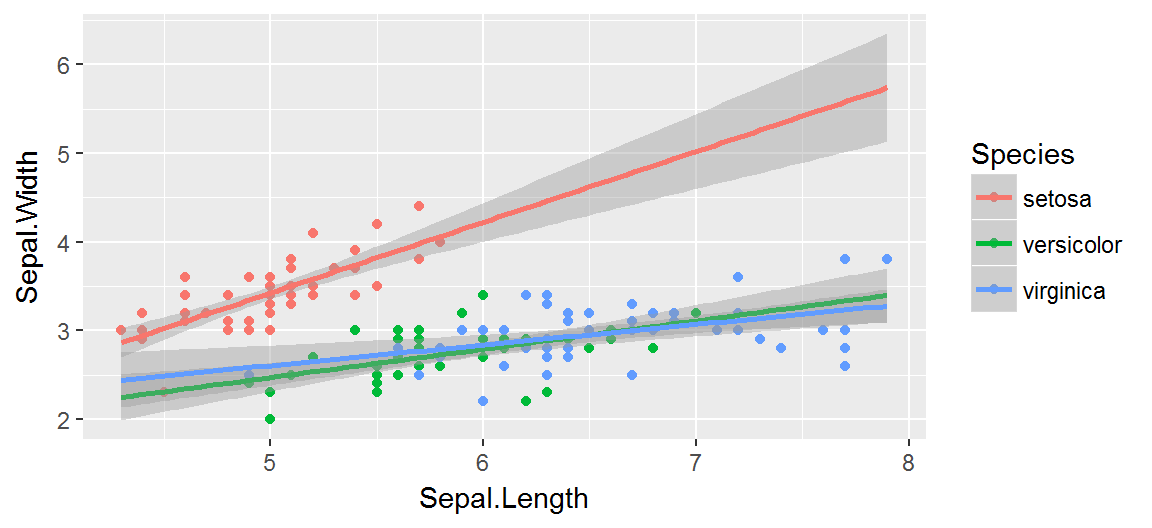
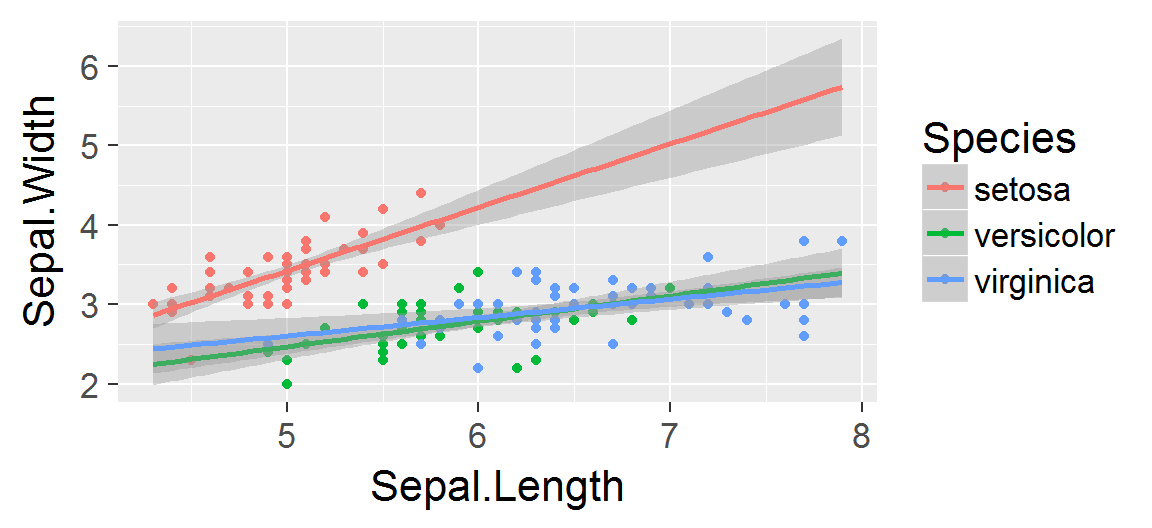
Updated the second ggplot 2 lab.
Removed weird example with lm smooth on each iris species.

Added example of changing facet labels.

Increased font size in plots

diff --git a/labs/ggplot_part2.html b/labs/ggplot_part2.html
@@ -10,7 +10,7 @@
 
 
 
-  <meta name="date" content="2017-03-20" />
+  <meta name="date" content="2017-03-24" />
 
   <meta name="viewport" content="width=device-width, initial-scale=1">
   <meta name="apple-mobile-web-app-capable" content="yes">
@@ -95,7 +95,7 @@
       <h1 data-config-title><!-- populated from slide_config.json --></h1>
       <h2 data-config-subtitle><!-- populated from slide_config.json --></h2>
       <p data-config-presenter><!-- populated from slide_config.json --></p>
-            <p style="margin-top: 6px; margin-left: -2px;">2017-03-20</p>
+            <p style="margin-top: 6px; margin-left: -2px;">2017-03-24</p>
           </hgroup>
   </slide>
 
@@ -104,6 +104,8 @@
 <p>We&#39;re going to continue the tour of the <code>ggplot2</code> package we began <a href='./lab17_ggplot2.html' title=''>last week</a></p>
 
 <p>We&#39;ll explore some more &quot;advanced&quot; features of the package, look at data management issues in the context of ggplot-ing, and make some common types of visualizations.</p>
+
+<p>NB: This lab was made using ggplot2 version 2.2.1, and a few things I&#39;ll be using are specific to ggplot2 version &gt;= 2.0. So, if you have an older version installed, you&#39;ll need to upgrade to follow along. You can check your version using the command <code>packageVersion(&quot;ggplot2&quot;)</code></p>
 
 </article></slide><slide class=''><hgroup><h2>The <code>iris</code> dataset</h2></hgroup><article  id="the-iris-dataset" class="img-centered">
 
@@ -191,7 +193,7 @@ print(p)</pre>
 
 </article></slide><slide class=''><hgroup><h2>Adding smooths</h2></hgroup><article  id="adding-smooths">
 
-<p>ggplot has a special geometric object called a &quot;smooth&quot;, which is a line path whose x and y values are determined by a regression algorithm (e.g., loess, or lm).</p>
+<p>ggplot has a special geometric object called a &quot;smooth&quot;, which is a line path whose x and y values are determined by a regression algorithm (e.g., <code>loess</code>, or <code>lm</code>).</p>
 
 <p>We can show a regression line and conditional mean C.I. for each flower group by adding a <code>geom_smooth</code> layer to the plot, and setting the <code>method</code> argument to be <code>&quot;lm&quot;</code>.</p>
 
@@ -203,40 +205,21 @@ print(p)</pre>
 
 <p>So far, any geometric object layers we&#39;ve added have inherited their data and aesthetic mapping from the &quot;global&quot; mapping defined in the call to the <code>gpplot</code> function.</p>
 
-<p>However, that need not be the case: geoms can set their own layer-specific data sets and aesthetic mappings. This feature is mainly useful for two tasks:</p>
+<p>However, that need not be the case: geoms can set their own layer-specific data sets and aesthetic mappings. The layer-specific dataset or mapping is set inside the call the <code>geom_*whatever*</code>, using the same syntax as inside <code>ggplot</code>.</p>
 
-<ul>
-<li>Adding summary-level information to plots of raw data</li>
-<li>Plotting part of a dataset with one geom, and different part with another geom (e.g. mixing a barplot and a scatter plot.)</li>
-</ul>
+<p>This feature is most useful for visualizing data from two different observational units (e.g., data from individual subjects, and summary statistics for each experimental condition).</p>
 
-</article></slide><slide class=''><hgroup><h2>Layer-specific mappings</h2></hgroup><article  id="layer-specific-mappings">
-
-<p>The layer-specific dataset or mapping is set inside the call the <code>geom_*whatever*</code>, using the same syntax as inside <code>ggplot</code>.</p>
-
-<p>Here, we&#39;ll use a layer specific mapping for <code>geom_smooth</code> which removes the mappings of <code>Species</code> to color, thus regressing width on length for all 3 species of iris at once.</p>
-
-<pre class = 'prettyprint lang-r'>p + geom_smooth(method = &quot;lm&quot;, fullrange = TRUE,
-                mapping = aes(color = NULL))</pre>
-
-<p><img src="ggplot_part2_files/figure-html/bad_idea-1.png" width="576" style="display: block; margin: auto;" /></p>
-
-</article></slide><slide class=''><hgroup><h2>Layer-specific mappings</h2></hgroup><article  id="layer-specific-mappings-1">
-
-<p>Of course, this is an example of how to use <code>ggplot</code> and not an example of how to fit a regression model.</p>
-
-<p>Ignoring species is a Bad Idea™, because our model violates the assumption of homogenous error variance.</p>
-
-<p><img src="ggplot_part2_files/figure-html/unnamed-chunk-1-1.png" width="576" style="display: block; margin: auto;" /></p>
+<p>To see how to do this, let&#39;s show the <em>average</em> Sepal width and length for each Iris species on our plot of the raw observations.</p>
 
 </article></slide><slide class=''><hgroup><h2>Layer-specific data</h2></hgroup><article  id="layer-specific-data">
 
-<p>A better use of layer-specific setting would be to add another layer of points that has the mean Sepal width and length for each species.</p>
+<p>To do this, we&#39;ll need to a data frame that summarizes the Sepal length and width for each species with their average size.</p>
 
-<p>To do this, we&#39;ll need to create a dataset that summaries the Sepal length and width for each species with their average size.</p>
+<p>We&#39;ll start creating this data frame by grouping the iris dataset by the <code>Species</code> variable and averaging all the remaining columns.</p>
 
 <pre class = 'prettyprint lang-r'>library(dplyr)
-iris_means &lt;- iris %&gt;% group_by(Species) %&gt;% summarise_each(&quot;mean&quot;)</pre>
+iris_means &lt;- iris %&gt;% group_by(Species) %&gt;% summarise_all(&quot;mean&quot;)
+pander(iris_means, split.table = Inf)</pre>
 
 <table class = 'rmdtable'>
 <col width="15%" />
@@ -276,17 +259,17 @@ iris_means &lt;- iris %&gt;% group_by(Species) %&gt;% summarise_each(&quot;mean&
 
 </article></slide><slide class=''><hgroup><h2>Layer-specific data</h2></hgroup><article  id="layer-specific-data-1">
 
-<p>Now, we&#39;ll include another layer of points, and set it to use the summarized dataset as its source of information. We&#39;ll also set it to use a different shape (an X) and size, so we can distinguish it from the raw data.</p>
+<p>Now, we&#39;ll include another layer of points, and use the summarized dataset as its source of information. We&#39;ll also use a different shape (an X), size, and thickness, so we can distinguish the means from the raw data.</p>
 
-<pre class = 'prettyprint lang-r'>p + geom_point(data = iris_means, size = 5, shape = 4)</pre>
+<pre class = 'prettyprint lang-r'>p + geom_point(data = iris_means, size = 4, shape = 4, stroke = 2)</pre>
 
 <p><img src="ggplot_part2_files/figure-html/means-1.png" width="576" style="display: block; margin: auto;" /></p>
 
 </article></slide><slide class=''><hgroup><h2>Adding Petal Width and Length</h2></hgroup><article  id="adding-petal-width-and-length">
 
-<p>So far we&#39;ve only been looking at half the data, so lets add in the Petal length and width data.</p>
+<p>So far we&#39;ve only been looking at half the data, so lets add in the Petal length and width measurements.</p>
 
-<p>But we&#39;ve got a problem: the widths and lengths for Petals and Sepals are separated individual variables!</p>
+<p>But there is a problem: the widths and lengths for Petals and Sepals are separate variables!</p>
 
 <table class = 'rmdtable'>
 <col width="20%" />
@@ -333,16 +316,16 @@ iris_means &lt;- iris %&gt;% group_by(Species) %&gt;% summarise_each(&quot;mean&
 <pre class = 'prettyprint lang-r'>library(tidyr)
 
 # Add a primary key
-iris_normal &lt;- mutate(iris, FlowerID = row_number(Species)) %&gt;%
-# change layout to long-form
+iris_long &lt;- mutate(iris, FlowerID = 1:nrow(iris)) %&gt;%
+  # change layout to long-form
   gather(key = variable, value = size, Sepal.Length:Petal.Width) %&gt;%
-# Break &quot;Sepal/Petal&quot; &amp; &quot;Length/Width&quot; into 2 columns
+  # Break &quot;Sepal/Petal&quot; &amp; &quot;Length/Width&quot; into 2 columns
   separate(variable, c(&quot;Structure&quot;, &quot;dimension&quot;))
 
-# Make a variable for length and width each  
-iris_long &lt;- spread(iris_normal, dimension, size)</pre>
+# Make a separate variable for length and width measurement
+iris_normal &lt;- spread(iris_long, dimension, size)</pre>
 
-</article></slide><slide class=''><hgroup><h2>The new <code>iris_long</code> dataset</h2></hgroup><article  id="the-new-iris_long-dataset">
+</article></slide><slide class=''><hgroup><h2>The new <code>iris_normal</code> dataset</h2></hgroup><article  id="the-new-iris_normal-dataset">
 
 <p>Ah, much better</p>
 
@@ -350,63 +333,63 @@ iris_long &lt;- spread(iris_normal, dimension, size)</pre>
 <col width="13%" />
 <col width="15%" />
 <col width="16%" />
-<col width="16%" />
-<col width="8%" />
+<col width="12%" />
+<col width="12%" />
 <tr class="header">
 <th align="center">Species</th>
 <th align="center">FlowerID</th>
 <th align="center">Structure</th>
-<th align="center">dimension</th>
-<th align="center">size</th>
+<th align="center">Length</th>
+<th align="center">Width</th>
 </tr>
 <tr class="odd">
 <td align="center">setosa</td>
 <td align="center">1</td>
+<td align="center">Petal</td>
+<td align="center">1.4</td>
+<td align="center">0.2</td>
+</tr>
+<tr class="even">
+<td align="center">setosa</td>
+<td align="center">1</td>
 <td align="center">Sepal</td>
-<td align="center">Length</td>
 <td align="center">5.1</td>
+<td align="center">3.5</td>
+</tr>
+<tr class="odd">
+<td align="center">setosa</td>
+<td align="center">2</td>
+<td align="center">Petal</td>
+<td align="center">1.4</td>
+<td align="center">0.2</td>
 </tr>
 <tr class="even">
 <td align="center">setosa</td>
 <td align="center">2</td>
 <td align="center">Sepal</td>
-<td align="center">Length</td>
 <td align="center">4.9</td>
+<td align="center">3</td>
 </tr>
 <tr class="odd">
 <td align="center">setosa</td>
 <td align="center">3</td>
-<td align="center">Sepal</td>
-<td align="center">Length</td>
-<td align="center">4.7</td>
+<td align="center">Petal</td>
+<td align="center">1.3</td>
+<td align="center">0.2</td>
 </tr>
 <tr class="even">
+<td align="center">setosa</td>
+<td align="center">3</td>
+<td align="center">Sepal</td>
+<td align="center">4.7</td>
+<td align="center">3.2</td>
+</tr>
+<tr class="odd">
 <td align="center">setosa</td>
 <td align="center">4</td>
-<td align="center">Sepal</td>
-<td align="center">Length</td>
-<td align="center">4.6</td>
-</tr>
-<tr class="odd">
-<td align="center">setosa</td>
-<td align="center">5</td>
-<td align="center">Sepal</td>
-<td align="center">Length</td>
-<td align="center">5</td>
-</tr>
-<tr class="even">
-<td align="center">setosa</td>
-<td align="center">6</td>
-<td align="center">Sepal</td>
-<td align="center">Length</td>
-<td align="center">5.4</td>
-</tr>
-<tr class="odd">
-<td align="center">setosa</td>
-<td align="center">7</td>
-<td align="center">Sepal</td>
-<td align="center">Length</td>
-<td align="center">4.6</td>
+<td align="center">Petal</td>
+<td align="center">1.5</td>
+<td align="center">0.2</td>
 </tr>
 <tr class="even">
 <td align="center">&#8230;</td>
@@ -427,44 +410,64 @@ iris_long &lt;- spread(iris_normal, dimension, size)</pre>
 
 </article></slide><slide class=''><hgroup><h2>Facetting</h2></hgroup><article  id="facetting">
 
-<p>Facets are added just like adding a new geom layer, and the layout of the panels is determined using the <code>lm</code>-style formula syntax.</p>
+<p>Facets are added just like adding a new geom layer, and the layout of the panels is determined using formula syntax.</p>
 
-<p>Here, we&#39;re asking for that dataset to be divided into different plots according to the values of the <code>Structure</code> variable.</p>
+<p>Here, we&#39;re asking for that dataset to be divided into different panels according to the values of the <code>Structure</code> variable.</p>
 
-<p>We&#39;ll use <code>facet_grid</code> here, since dividing plot according to the <code>Structure</code> variable would evenly fill a 2x1 or 1x2 matrix.</p>
+<p>Variables on the <em>left</em> side of the <code>~</code> map onto vertically arranged panels, and variable names on the <em>right</em> side map onto horizontally arranged panels.</p>
 
-<pre class = 'prettyprint lang-r'>p &lt;- ggplot(data = iris_long, 
+<pre class = 'prettyprint lang-r'>p &lt;- ggplot(data = iris_normal, 
         mapping = aes(x = Length, y = Width, color = Species)) +
-  geom_point() + 
-  facet_grid( ~ Structure)</pre>
+  geom_point()
+p + facet_grid( ~ Structure)</pre>
 
 <p>We&#39;ll show the plot on the next slide&#8230;</p>
 
 </article></slide><slide class=''><hgroup><h2>Facetting</h2></hgroup><article  id="facetting-1">
 
-<p>Panels created with faceting share the same scales!.</p>
-
-<pre class = 'prettyprint lang-r'>p &lt;- ggplot(data = iris_long, 
+<pre class = 'prettyprint lang-r'>p &lt;- ggplot(data = iris_normal, 
         mapping = aes(x = Length, y = Width, color = Species)) +
-  geom_point() + 
-  facet_grid( ~ Structure)</pre>
+  geom_point()
+p + facet_grid( ~ Structure)</pre>
 
-<p><img src="ggplot_part2_files/figure-html/unnamed-chunk-3-1.png" width="576" style="display: block; margin: auto;" /></p>
+<p><img src="ggplot_part2_files/figure-html/unnamed-chunk-2-1.png" width="576" style="display: block; margin: auto;" /> Panels created with faceting share the same scales!</p>
+
+</article></slide><slide class=''><hgroup><h2>Facet Labels</h2></hgroup><article  id="facet-labels">
+
+<p>If you want to change the panel labels, you&#39;ll need to use whats called a labeller function. The easiest way to create a labeller function is by the calling the function <em>called</em> <code>labeller</code> on a named character vector.</p>
+
+<p>The <em>names</em> of the elements in the character vector should be values of the variable you are faceting by, and the elements themselves should be the labels you want to appear in the plot.</p>
+
+<p>For the <code>Structure</code> variable, this would look something like:</p>
+
+<pre class = 'prettyprint lang-r'>labeller(Structure = c(&quot;Petal&quot; = &quot;Pointy Petals&quot;,
+                       &quot;Sepal&quot; = &quot;Sexy Sepals&quot;)
+         )</pre>
+
+</article></slide><slide class=''><hgroup><h2>Facet Labels</h2></hgroup><article  id="facet-labels-1">
+
+<p>Then take this function and supply it as the <code>labeller</code> argument of <code>facet_grid</code> or <code>facet_wrap</code>.</p>
+
+<pre class = 'prettyprint lang-r'>p + facet_grid(~ Structure,
+               labeller = labeller(Structure = c(&quot;Petal&quot; = &quot;Pointy Petals&quot;,
+                                                 &quot;Sepal&quot; = &quot;Sexy Sepals&quot;)))</pre>
+
+<p><img src="ggplot_part2_files/figure-html/change_facet_labels-1.png" width="576" style="display: block; margin: auto;" /></p>
 
 </article></slide><slide class=''><hgroup><h2>Plots with error bars</h2></hgroup><article  id="plots-with-error-bars">
 
 <p>Lets switch from scatter-plotting the lengths and widths to plotting some summary statistics of the Petal/Sepal lengths and widths for each species.</p>
 
-<p>Of course, any good plot of summary statistics includes error bars. Luckily, ggplot makes it easy to add error bars, so long as we make their upper and lower limits part of the dataset we are plotting.</p>
+<p>Of course, any good plot of summary statistics includes error bars. Luckily, ggplot makes it easy to add error bars, with the <code>geom_errorbar</code> function.</p>
 
-<p>Step 1: Summarizing the data, including the upper and lower bounds of the 95% CI.</p>
+<p>Step 1: Summarizing the long-form dataset, including the upper and lower bounds of the 95% CI.</p>
 
-<pre class = 'prettyprint lang-r'>iris_means &lt;- iris_normal %&gt;%
+<pre class = 'prettyprint lang-r'>iris_means &lt;- iris_long %&gt;%
   group_by(Species, Structure, dimension) %&gt;%
   summarise(avg = mean(size), SD = sd(size), N = n()) %&gt;%
   mutate(SEM = SD/sqrt(N),
          upper = avg + SEM*qt(.975, N-1,lower.tail = F),
-         lower = avg - SEM*qt(.975, N-1,lower.tail = F))</pre>
+         lower = avg - (upper-avg))</pre>
 
 </article></slide><slide class=''><hgroup><h2>Petal/Sepal Averages</h2></hgroup><article  id="petalsepal-averages">
 
@@ -645,11 +648,11 @@ print(p)</pre>
 
 </article></slide><slide class=''><hgroup><h2>A barplot of the averages</h2></hgroup><article  id="a-barplot-of-the-averages">
 
-<p>You could also plot these averages with a barplot, which can be created with <code>geom_col</code>. Making a bar plot with these geoms requires a little tweaking:</p>
+<p>You could also plot these averages with a barplot, which can be created with <code>geom_col</code>. Making a bar plot requires a little tweaking:</p>
 
 <ul>
-<li>The <code>color</code> aesthetic of bars corresponds to the color if the bar&#39;s perimeter, rather than the color of its area, so we need to map the <code>fill</code> aesthetic instead</li>
-<li>To get side-by-side bars (instead of stacked bars), we need tell <code>ggplot</code> to put space between each bar with the <code>position_dodge()</code> function. This function takes 1 argument (<code>width</code>), which controls how far apart the bars are placed</li>
+<li>The <code>color</code> aesthetic of bars corresponds to the color of the bar&#39;s perimeter, rather than the color of its area, so we need to map the <code>Species</code> variable to the <code>fill</code> aesthetic instead</li>
+<li>To get side-by-side bars (instead of stacked bars), we need tell <code>ggplot</code> to spread each bar out across the x axis the <code>position_dodge()</code> function. This function takes 1 argument (<code>width</code>), which controls how far apart the bars are placed</li>
 </ul>
 
 </article></slide><slide class=''><hgroup><h2>A barplot of the averages</h2></hgroup><article  id="a-barplot-of-the-averages-1">
@@ -661,21 +664,21 @@ print(p)</pre>
   facet_grid(~Structure)
 print(p)</pre>
 
-<p><img src="ggplot_part2_files/figure-html/unnamed-chunk-4-1.png" width="576" style="display: block; margin: auto;" /></p>
+<p><img src="ggplot_part2_files/figure-html/unnamed-chunk-3-1.png" width="576" style="display: block; margin: auto;" /></p>
 
 </article></slide><slide class=''><hgroup><h2>A barplot with errror bars</h2></hgroup><article  id="a-barplot-with-errror-bars">
 
 <p>To include error bars, we use <code>geom_errorbar</code> like before, but we also must set <code>position_dodge(width = 1)</code> to get each error bar to match up correctly.</p>
 
 <pre class = 'prettyprint lang-r'>p + geom_errorbar(aes(ymin = lower, ymax = upper),
-                position = position_dodge(width = 1),
-                width = .15)</pre>
+                  position = position_dodge(width = 1),
+                  width = .15)</pre>
 
-<p><img src="ggplot_part2_files/figure-html/unnamed-chunk-5-1.png" width="576" style="display: block; margin: auto;" /></p>
+<p><img src="ggplot_part2_files/figure-html/unnamed-chunk-4-1.png" width="576" style="display: block; margin: auto;" /></p>
 
 </article></slide><slide class=''><hgroup><h2>Miscellaneous</h2></hgroup><article  id="miscellaneous">
 
-<p>There is still a lot more to ggplot (the author of the package has a <a href='http://www.amazon.com/ggplot2-Elegant-Graphics-Data-Analysis/dp/0387981403' title=''>great book</a>) but here are a few more pointers.</p>
+<p>There is still a lot more to ggplot (the author of the package has a <a href='https://www.amazon.com/ggplot2-Elegant-Graphics-Data-Analysis/dp/331924275X' title=''>great book</a>) but here are a few more pointers.</p>
 
 <ul>
 <li>You&#39;ll often need to change the name and limits of a scale. You can do this by invoking the appropriate <code>scale_*whatever*</code> function, and using the <code>scale_name</code> and <code>limits</code> arguments
@@ -703,11 +706,12 @@ print(p)</pre>
 <li><code>lower</code>: The lower bound of cancers (assuming a binomial distribution)</li>
 </ul>
 
-<pre class = 'prettyprint lang-r'>esoph &lt;- mutate(esoph, cell_size = ncontrols + ncases,
-            p = ncases/cell_size,
-            upper = qbinom(.975, size = cell_size, prob = p)/cell_size,
-         lower = qbinom(.025, size = cell_size, prob = p)/cell_size,
-         cell_size = NULL)</pre>
+<pre class = 'prettyprint lang-r'>esoph &lt;- mutate(esoph,
+                cell_size = ncontrols + ncases,
+                p = ncases/cell_size,
+                upper = qbinom(.975, size = cell_size, prob = p) / cell_size,
+                lower = qbinom(.025, size = cell_size, prob = p) / cell_size,
+                cell_size = NULL)</pre>
 
 </article></slide><slide class=''><hgroup><h2>Activity</h2></hgroup><article  id="activity-1">
 
